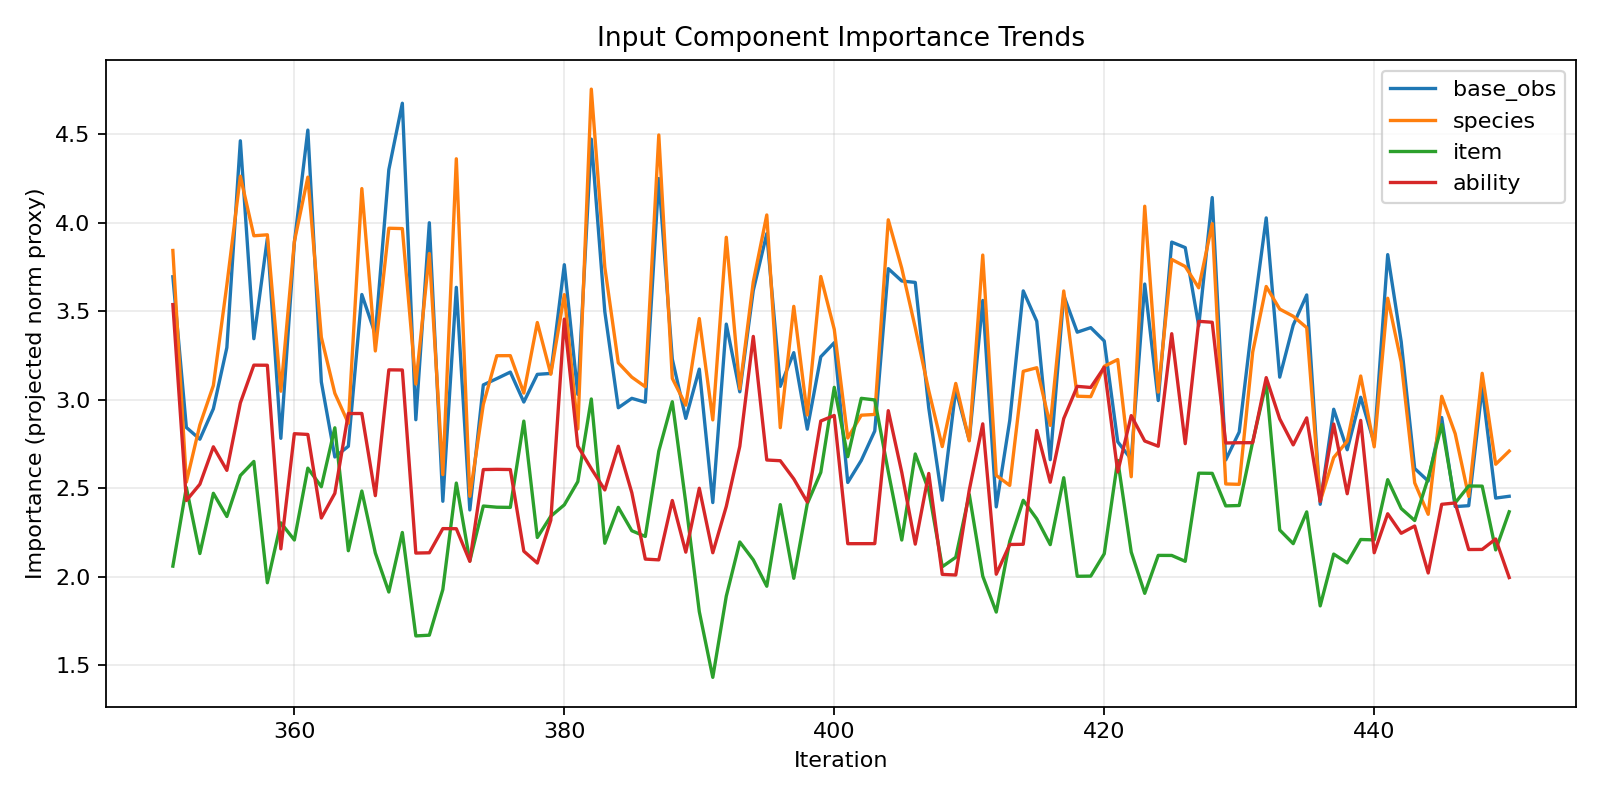
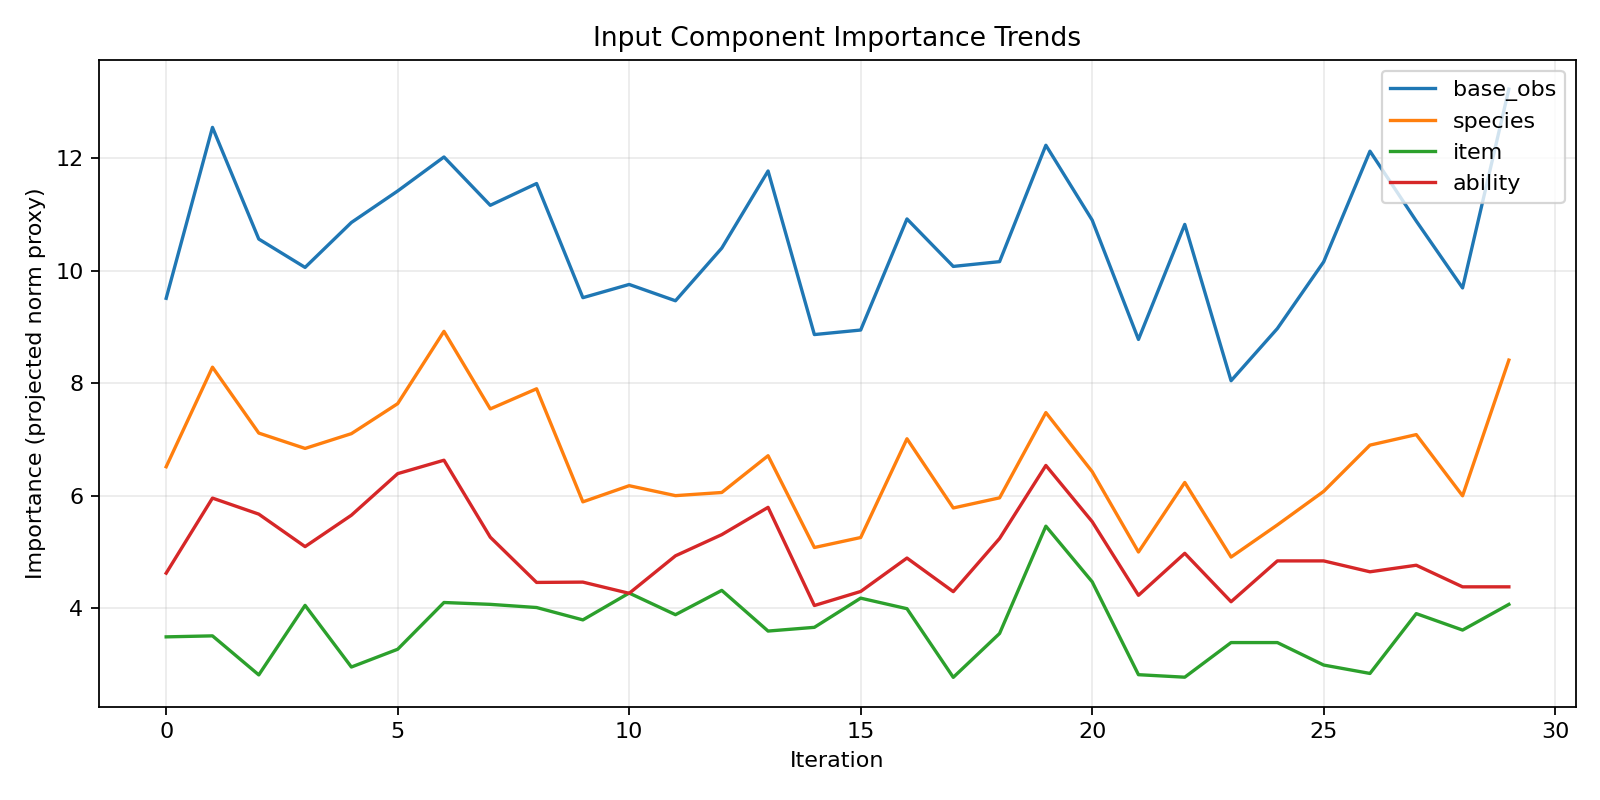
Doc: import DSPRO2_Project_Doc(2) report bundle.
Update Doc/ from DSPRO2_Project_Doc(2).zip (includes team-pool additions and
comparison plots).

diff --git a/Doc/sections/03_methods.tex b/Doc/sections/03_methods.tex
@@ -144,7 +144,18 @@ gradually faces stronger ones.  The curriculum currently has four stages:
         type effectiveness and switches strategically.
 \end{enumerate}
 
-% TODO: If a fifth stage is added, update the list above.
+\subsection{Team-Pool Curriculum (Later Experiments)}
+\label{sec:team_pool_curriculum}
+
+After the curriculum above was established, a separate training line was added
+for \textbf{fixed team pools} on \texttt{gen8customgame} (preset
+\texttt{pure\_league\_play}).  It does not replace the earlier four-stage setup;
+it extends the same PPO stack with staged opponent teams
+($3 \to 5 \to 10 \to 20$) and a final \texttt{league\_training} mix
+(roughly 68\,\% heuristic, 10\,\% self-play, 5\,\% historical snapshots,
+12\,\% random, 5\,\% \texttt{random\_no\_switch}).  Stages include
+\texttt{warmup}, \texttt{heuristic\_bridge}, pool tactics stages, then league.
+Manifests live under \texttt{data/teams/pool\_curriculum/}.
 
 \subsubsection{Per-Stage Reward Variants}
 
@@ -195,7 +206,8 @@ At each checkpoint, the training pipeline exports the current model weights to
 the self-play weights path, making them immediately available to all
 \texttt{SelfPlayPlayer} instances across workers.  This creates a natural
 curriculum where the agent continuously adapts to an opponent of increasing
-skill.
+skill. In later runs paths are resolved to absolute locations for Ray workers, and
+action selection uses temperature sampling ($\tau \approx 0.8$) instead of deterministic argmax.
 
 % TODO: Add talking point about self-play training results once available.
 % Specifically: win rate curves for self-play stage, comparison with
@@ -221,6 +233,8 @@ The environment supports four opponent categories:
     disadvantage. \\
   \texttt{self} & \texttt{SelfPlayPlayer} &
     Uses the training model's weights for inference with hot-reload support. \\
+    \texttt{historical} & Historical snapshot player &
+    Samples past checkpoints from a small ring buffer (league stage only). \\
   \bottomrule
 \end{tabularx}
 \end{center}
@@ -300,9 +314,9 @@ High-cardinality categorical entities are mapped to learned embeddings:
   \toprule
   \textbf{Entity} & \textbf{Vocabulary Size} & \textbf{Embedding Dim} \\
   \midrule
-  Species   & 1\,151 & 32 \\
-  Items     & 1\,110 & 32 \\
-  Abilities & 216    & 32 \\
+    Species   & 1\,515 & 32 \\
+  Items     & 583    & 32 \\
+  Abilities & 314    & 32 \\
   \bottomrule
 \end{tabularx}
 \end{center}
@@ -476,11 +490,16 @@ output serves as the shared representation:
 The default (\texttt{standard}) configuration produces approximately
 \textbf{10--15\,million parameters}.  Preset variations are detailed in
 Section~\ref{sec:infrastructure}.
-
+Later \texttt{pure\_league\_play} runs used a smaller trunk (hidden dim 256,
+three transformer layers, LSTM disabled) while troubleshooting plateauing win
+rates; we did not see reliable gains from LSTM after the vocabulary/embedding
+migration, so recurrent memory was deprioritised in favour of stability.
 % TODO: Insert a figure showing the full model architecture as a block
 % diagram: Input (obs dict) -> Embeddings -> Projection + Pos/Role ->
 % Transformer (1L) -> [LSTM] -> Policy/Value heads.  Can be generated
 % with draw.io, TikZ, or similar.
+
+
 
 \section{Training Infrastructure}
 \label{sec:infrastructure}
@@ -559,7 +578,9 @@ The \texttt{quick} preset is used for smoke tests and debugging.  The
 \texttt{standard} preset is the default for training runs.  The
 \texttt{optimal} preset (not shown) matches \texttt{standard} but targets the
 RTX~5090 specifically.
-
+Production league runs use \texttt{pure\_league\_play}
+(Section~\ref{sec:team_pool_curriculum}) with different parallelism and PPO
+hyperparameters.
 \subsection{PPO Hyperparameters}
 
 Default hyperparameters across all presets (unless overridden):
@@ -652,12 +673,17 @@ training and can also be run manually against any checkpoint via
 \texttt{scripts/validate\_checkpoint.py}.  Results are logged to MLflow with
 per-opponent-type breakdowns.
 
-\subsection{Training Throughput}
-% Look into this! I don't know if its accurate
+For \texttt{pure\_league\_play}, scheduled validation still uses the
+\texttt{benchmark} protocol (random-battle format) as a quick
+\textbf{out-of-distribution} generalisation check; future work is to add
+pool-matched evaluation aligned with training teams.
 
-Observed throughput on the \texttt{standard} preset:
-$\sim$800~environment samples per second (target: 1\,000+).  The primary
-bottleneck is the cpu since all the servers are single core and run on cpu.
+\subsection{Training Throughput}
+
+Observed throughput was on the order of $\sim$600~environment steps per second
+on league-style runs (RTX~3090 training machine; a colleague's RTX~5090 did not
+remove the bottleneck).  Showdown servers are CPU-bound (single-core Node.js
+instances), so GPU upgrades mainly help the learner, not battle simulation.
 
 \section{Iterative Development Methodology}
 \label{sec:dev_methodology}
@@ -722,7 +748,7 @@ embedding, degrading the model's ability to distinguish between entities.
         $\to$ internal key).
 \end{itemize}
 
-Vocabulary sizes: 1\,516~species, 584~items, 315~abilities.
+Vocabulary sizes: 1\,515~species, 583~items, 314~abilities.
 Coverage audit confirmed \textbf{zero unknown entities} across the BDSP
 dataset and validation manifests.  This change intentionally broke
 compatibility with all previous checkpoints: new training runs are treated as
@@ -1039,6 +1065,16 @@ difficult.
   \item \textbf{Console output:} Per-opponent win rate bars with confidence
         interval bounds printed at each validation interval.
 \end{itemize}
+
+\subsection{Remote Training and CUDA Stability}
+
+Long league runs initially hit recurring \texttt{CUDA illegal memory access}
+errors on a local workstation.  We tried driver reinstalls, memory tuning, and
+smaller batch sizes; the failures persisted and correlated with OS-level
+instability on that machine.  \textbf{Disclaimer:} AI-assisted debugging was
+used to narrow hypotheses, but the practical fix was moving training to a
+\textbf{vast.ai} cloud instance with a clean GPU stack, where the same code
+completed a full 25M-step run without those crashes.
 
 \subsection{Hyperparameter Sweep Methodology}
 

diff --git a/Doc/sections/04_results.tex b/Doc/sections/04_results.tex
@@ -228,6 +228,85 @@ point for the fixed-team setting:
 % - Value loss convergence (should drop and stabilise early)
 % - Entropy decrease as policy becomes confident
 % Mark curriculum stage transitions if applicable.
+\section{Team-Pool League Training (New)}
+\label{sec:league_results}
+
+A later training line (\texttt{pure\_league\_play}, 25M steps, team pools on
+\texttt{gen8customgame}) used the curriculum in
+Section~\ref{sec:team_pool_curriculum}.  We compared two variants:
+(1)~a fixed 20-team pool from the start (13.7M steps), and
+(2)~a staged pool curriculum ($3 \to 5 \to 10 \to 20$ teams; 25M steps).
+Table~\ref{tab:pool_compare_snapshot} reports the final logged snapshot values
+for in-distribution win rates in the league environment (note: single snapshot,
+not a trailing-window average).
+
+\begin{center}
+\small
+\begin{tabularx}{0.9\textwidth}{l c c}
+  \toprule
+  \textbf{Metric (in-distribution)} & \textbf{20-team (13.7M)} & \textbf{3--5--10--20 (25M)} \\
+  \midrule
+  Win rate vs.\ heuristic & 28.7\,\% & 78.3\,\% \\
+  Win rate vs.\ \texttt{random\_no\_switch} & 88.9\,\% & 81.3\,\% \\
+  Win rate vs.\ random & 100\,\% & 100\,\% \\
+  \bottomrule
+\end{tabularx}
+\captionof{table}{Snapshot comparison of league outcome win rates for a fixed 20-team pool vs.\ staged pool curriculum.}
+\label{tab:pool_compare_snapshot}
+\end{center}
+
+Scheduled \texttt{benchmark}
+validation (random-battle format, different from training) remained much lower
+against heuristics; we keep it as a coarse out-of-distribution probe and plan
+to add pool-matched evaluation in future iterations.
+
+\begin{figure}[H]
+  \centering
+  \includegraphics[width=0.95\textwidth]{diagnostics_plots/pool20_outcome_wr_vs_heuristic.png}
+  \caption{Fixed 20-team pool: outcome win rate vs.\ heuristic over training steps (plateau around 30\,\%).}
+  \label{fig:pool20_heuristic_wr}
+\end{figure}
+
+\begin{figure}[H]
+  \centering
+  \includegraphics[width=0.95\textwidth]{diagnostics_plots/pool_3_5_10_20_outcome_wr_vs_heuristic.png}
+  \caption{Staged pool curriculum ($3 \to 5 \to 10 \to 20$ teams): outcome win rate vs.\ heuristic over training steps (climbing to $\sim$80\,\%).}
+  \label{fig:pool_3_5_10_20_heuristic_wr}
+\end{figure}
+
+\begin{figure}[H]
+  \centering
+  \includegraphics[width=0.95\textwidth]{diagnostics_plots/pool20_explained_variance.png}
+  \caption{Fixed 20-team pool: PPO explained variance over training steps (exported from MLflow).}
+  \label{fig:pool20_explained_variance}
+\end{figure}
+
+\begin{figure}[H]
+  \centering
+  \includegraphics[width=0.95\textwidth]{diagnostics_plots/pool_3_5_10_20_explained_variance.png}
+  \caption{Staged pool curriculum ($3 \to 5 \to 10 \to 20$ teams): PPO explained variance over training steps (exported from MLflow).}
+  \label{fig:pool_3_5_10_20_explained_variance}
+\end{figure}
+
+A checkpoint export for the 25M run is in \texttt{saved\_models/pure\_league\_play\_25M/}.
+
+\begin{figure}[H]
+  \centering
+  \includegraphics[width=0.95\textwidth]{diagnostics_plots/confidence_trends.png}
+  \caption{Decision-diagnostics confidence trends from the final checkpoint (sampled battles; not a training-time metric).}
+\end{figure}
+
+\begin{figure}[H]
+  \centering
+  \includegraphics[width=0.95\textwidth]{diagnostics_plots/component_importance_trends.png}
+  \caption{Decision-diagnostics input component importance trends from the final checkpoint.}
+\end{figure}
+
+\begin{figure}[H]
+  \centering
+  \includegraphics[width=0.85\textwidth]{diagnostics_plots/token_saliency_heatmap.png}
+  \caption{Decision-diagnostics token saliency heatmap (final checkpoint).}
+\end{figure}
 
 \section{Random Teams (Milestone~2)}
 

diff --git a/Doc/sections/appendix_reproduction.tex b/Doc/sections/appendix_reproduction.tex
@@ -26,7 +26,7 @@ environment, running experiments, and evaluating checkpoints.
 
 \begin{lstlisting}[language=bash]
 # Clone the repository
-git clone https://github.com/mavgit1/DSPRO2-FS26-Pokemon_RL.git
+git clone https://github.com/TristanBMuri/DSPRO2-FS26-Pokemon_RL.git
 cd DSPRO2-FS26-Pokemon_RL
 
 # Install dependencies (uses uv, not pip)
@@ -54,6 +54,10 @@ uv run train_battler.py --preset quick
 
 # Standard training (48 envs, 10M steps)
 uv run train_battler.py --preset standard
+
+# Team-pool league curriculum (production preset, 25M steps typical)
+uv run train_battler.py --preset pure_league_play --timesteps 25000000
+
 
 # Full resources (RTX 5090)
 uv run train_battler.py --preset optimal
@@ -87,7 +91,7 @@ python scripts/validate_checkpoint.py \
   --checkpoint-path checkpoints/step_XXXX \
   --protocol fixed_paired
 
-# Validate against BDSP trainers
+# Validate against BDSP trainers (gauntlet data; automation still manual)
 python scripts/validate_bdsp_trainers.py \
   --checkpoint-path checkpoints/step_XXXX
 \end{lstlisting}

diff --git a/Doc/sections/02_background.tex b/Doc/sections/02_background.tex
@@ -239,6 +239,9 @@ generated programmatically.  No personal data is involved.
 \end{tabularx}
 \end{center}
 
+Gauntlet evaluation against this sequence is still \textbf{future work}; the files are
+kept for reproducibility and planned Milestone~4 integration.
+
 \subsection{Vocabulary Files}
 
 Categorical entities (species, items, abilities) are mapped to integer IDs via
@@ -250,9 +253,9 @@ stable dictionary lookups stored in JSON:
   \toprule
   \textbf{Entity} & \textbf{Vocabulary Size} & \textbf{Source} \\
   \midrule
-  Species  & 1\,151 & All Gen\,8 species \\
-  Items    & 1\,110 & All available held items \\
-  Abilities & 216   & All available abilities \\
+  Species  & 1\,515 & All Gen\,8 species (dictionary vocab) \\
+  Items    & 583   & All available held items \\
+  Abilities & 314   & All available abilities \\
   \bottomrule
 \end{tabularx}
 \end{center}

diff --git a/Doc/sections/06_conclusions.tex b/Doc/sections/06_conclusions.tex
@@ -135,6 +135,9 @@ training system for Pok\'{e}mon battles:
     Formal gauntlet validation pending. \\
   M2: Random Teams & In progress &
     Best skill score 0.3733.  Target: competitive with heuristic opponents. \\
+     Team-pool league & New &
+    \texttt{pure\_league\_play}: strong in-distribution WR vs.\ heuristic
+    ($\sim$80\,\%); OOD benchmark still weak. 25M checkpoint saved. \\
   M3: Team Building & Future &
     Requires team-composition model.  Largest technical risk.
     Depends on M2 competency. \\
